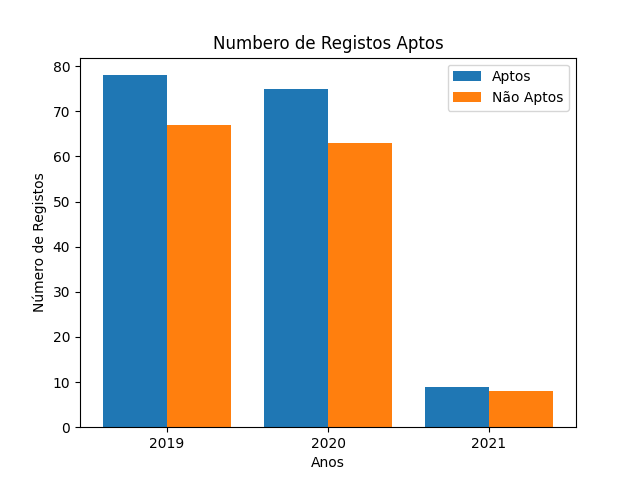
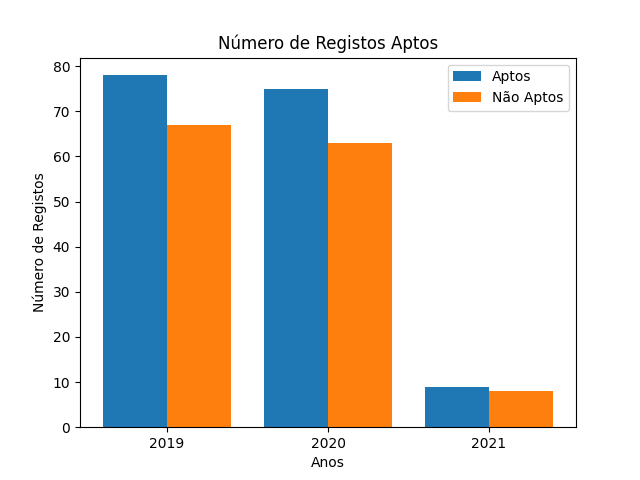
abra cadabra

Changed region(s): [[0.3125, 0.0625, 0.6875, 0.125]]

diff --git a/TP01/src/html/index.html b/TP01/src/html/index.html
@@ -118,7 +118,7 @@
 
 <button type="alinhaG" class="collapsible">g) Percentagem de aptos e não aptos por ano</button>
 <div class="content">
-  <a href="medResultsIndicators.html"><img src="../graphs/apt_Bar_Graph.png" alt="Graph" class="center"></a>
+  <a href="medicalResultsIndicators.html"><img src="../graphs/apt_Bar_Graph.png" alt="Graph" class="center"></a>
 </div>
 
 

diff --git a/TP01/src/htmlGenerator/index.py b/TP01/src/htmlGenerator/index.py
@@ -119,7 +119,7 @@ htmlStart = '''<!DOCTYPE html>
 
 <button type="alinhaG" class="collapsible">g) Percentagem de aptos e não aptos por ano</button>
 <div class="content">
-  <a href="medResultsIndicators.html"><img src="../graphs/apt_Bar_Graph.png" alt="Graph" class="center"></a>
+  <a href="medicalResultsIndicators.html"><img src="../graphs/apt_Bar_Graph.png" alt="Graph" class="center"></a>
 </div>
 
 '''

diff --git a/TP01/src/Queries/fitFederated.py b/TP01/src/Queries/fitFederated.py
@@ -164,7 +164,7 @@ def createBarGraphAptos(YearDict):   #Grafico de Barras Aptos
     plt.xticks(X_axis, years)
     plt.xlabel("Anos")
     plt.ylabel("Número de Registos")
-    plt.title("Numbero de Registos Aptos")
+    plt.title("Número de Registos Aptos")
     plt.legend()
     fig.savefig('graphs/apt_Bar_Graph.png')
 

diff --git a/TP01/src/Queries/addresStudy.py b/TP01/src/Queries/addresStudy.py
@@ -16,7 +16,7 @@ def getAddress(dataset):
             perAddress (dictionary) : devolve as moradas com os registos a elas associados
     """
 
-    ## { Modalidade : [emd01, emd02], (...) }
+    ## { address : [emd01, emd02], (...) }
 
     perAddress = {}
     
